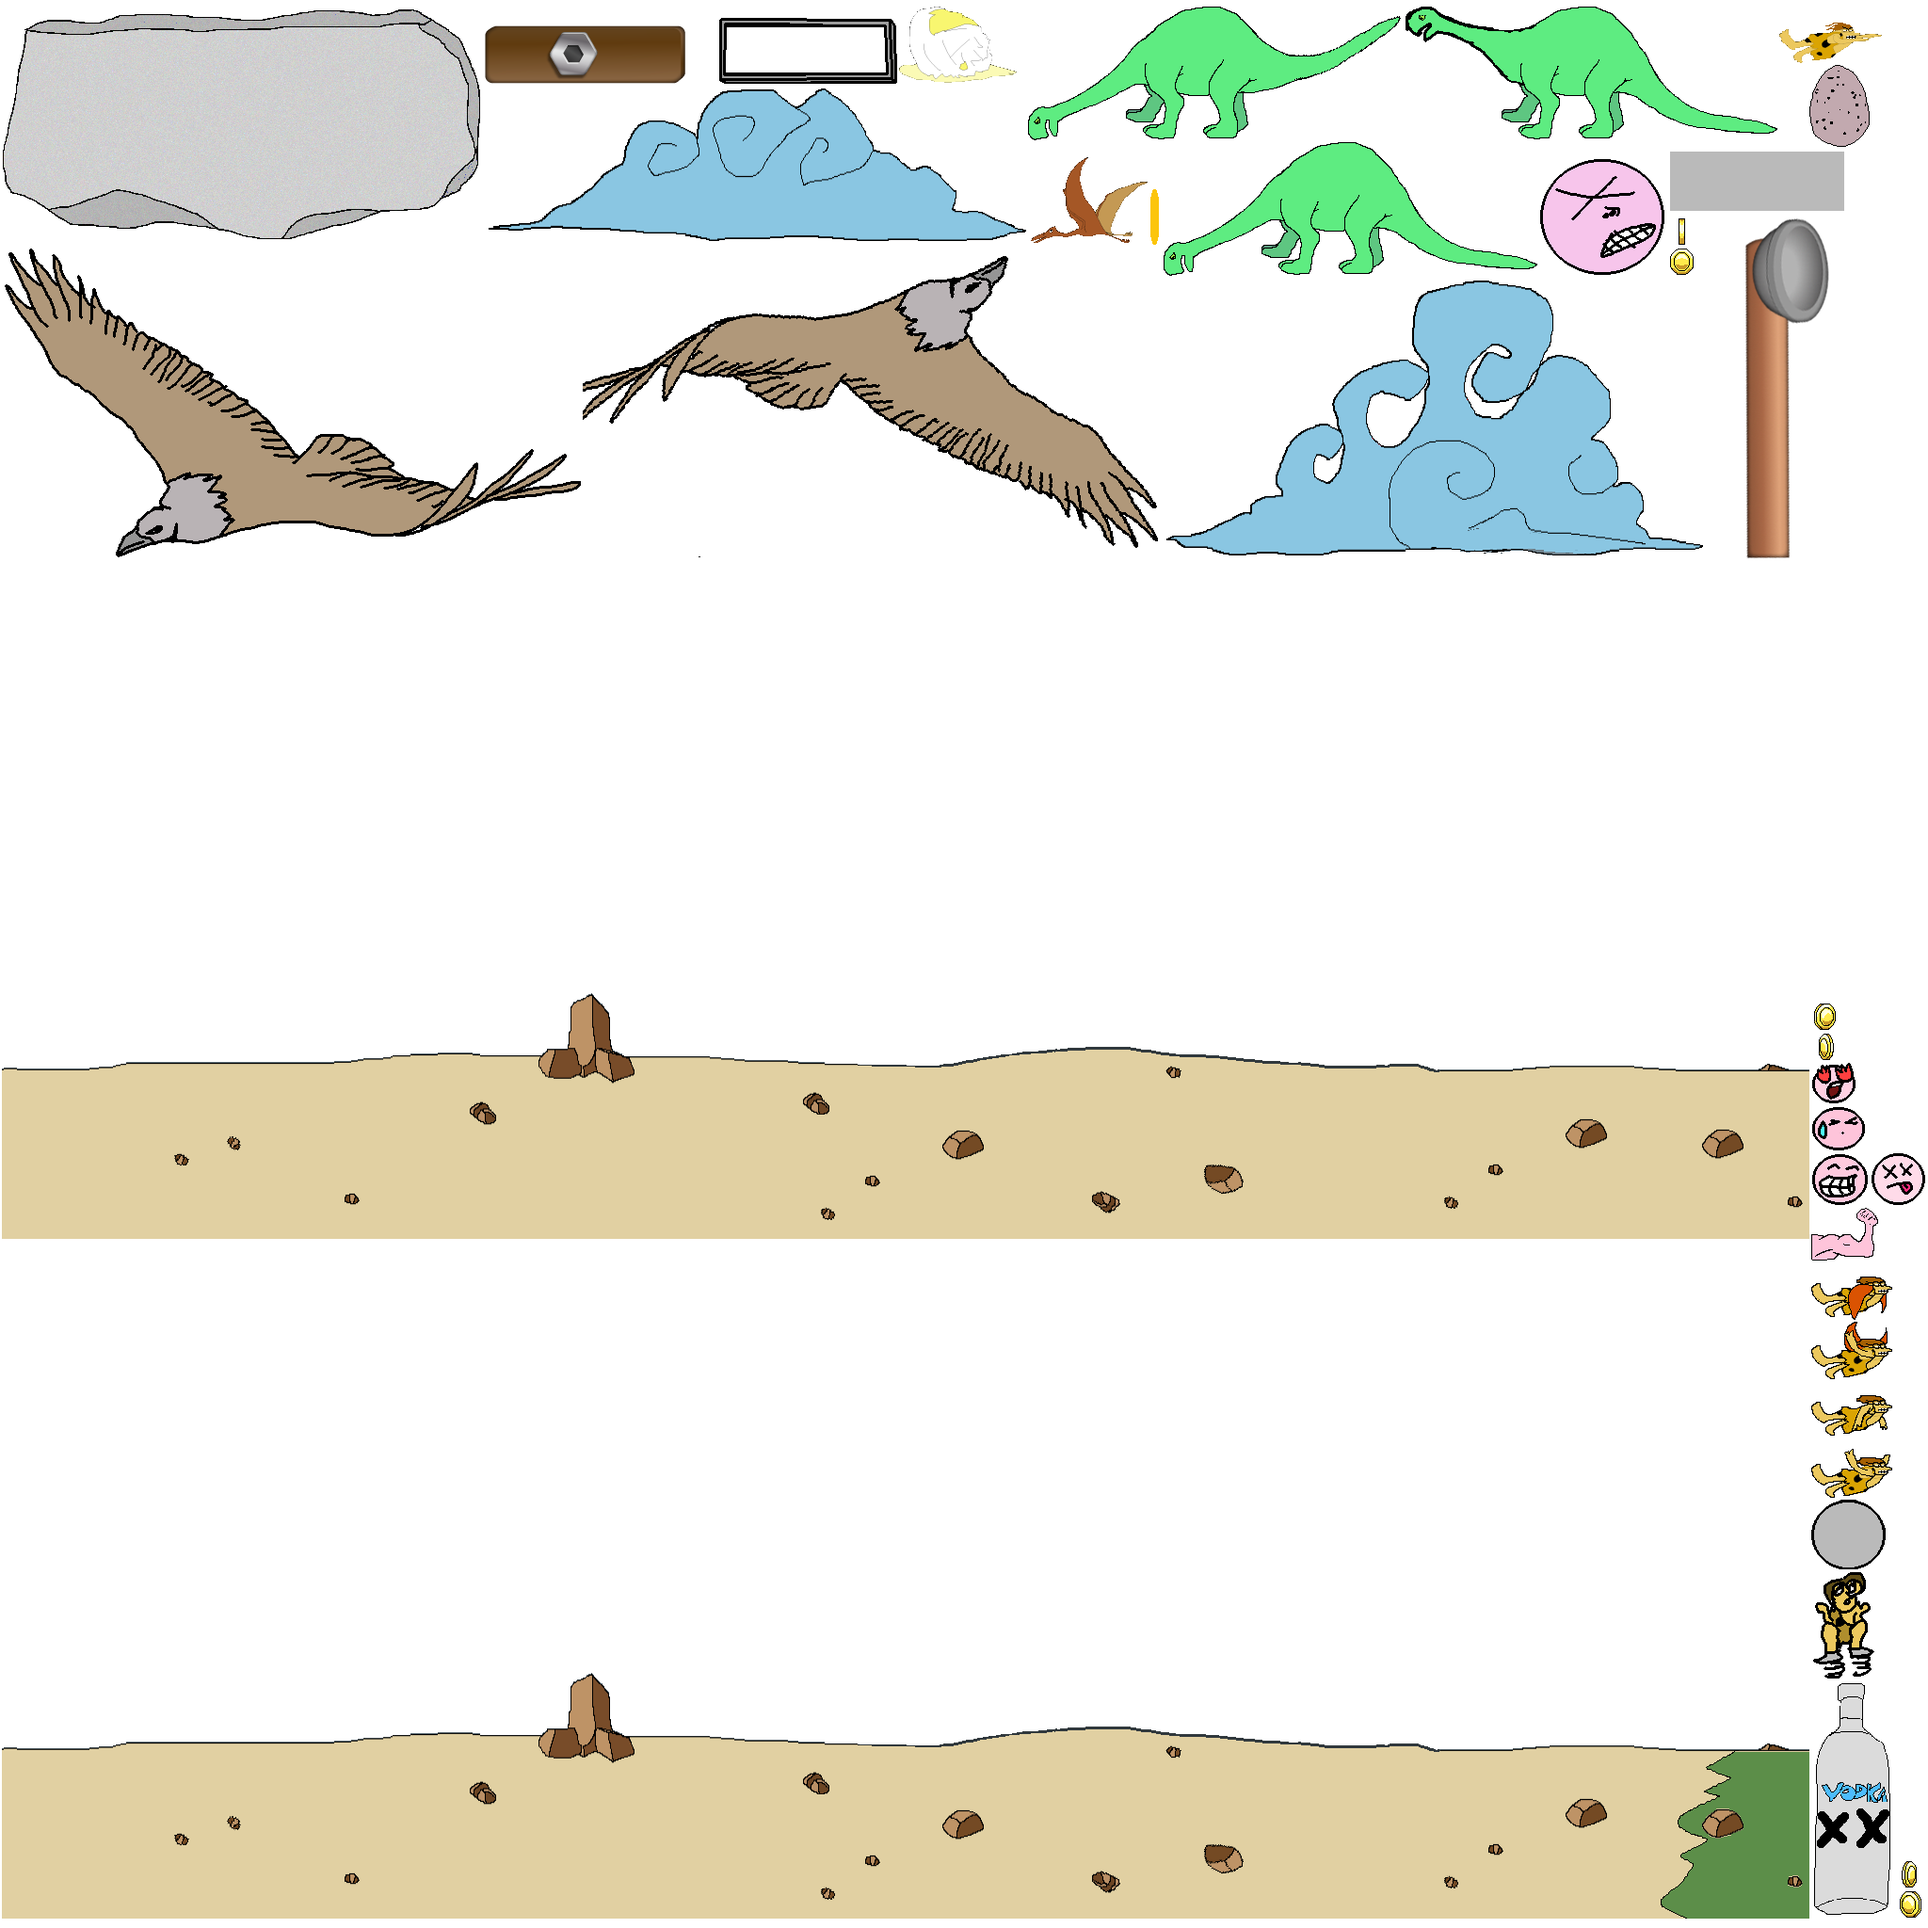
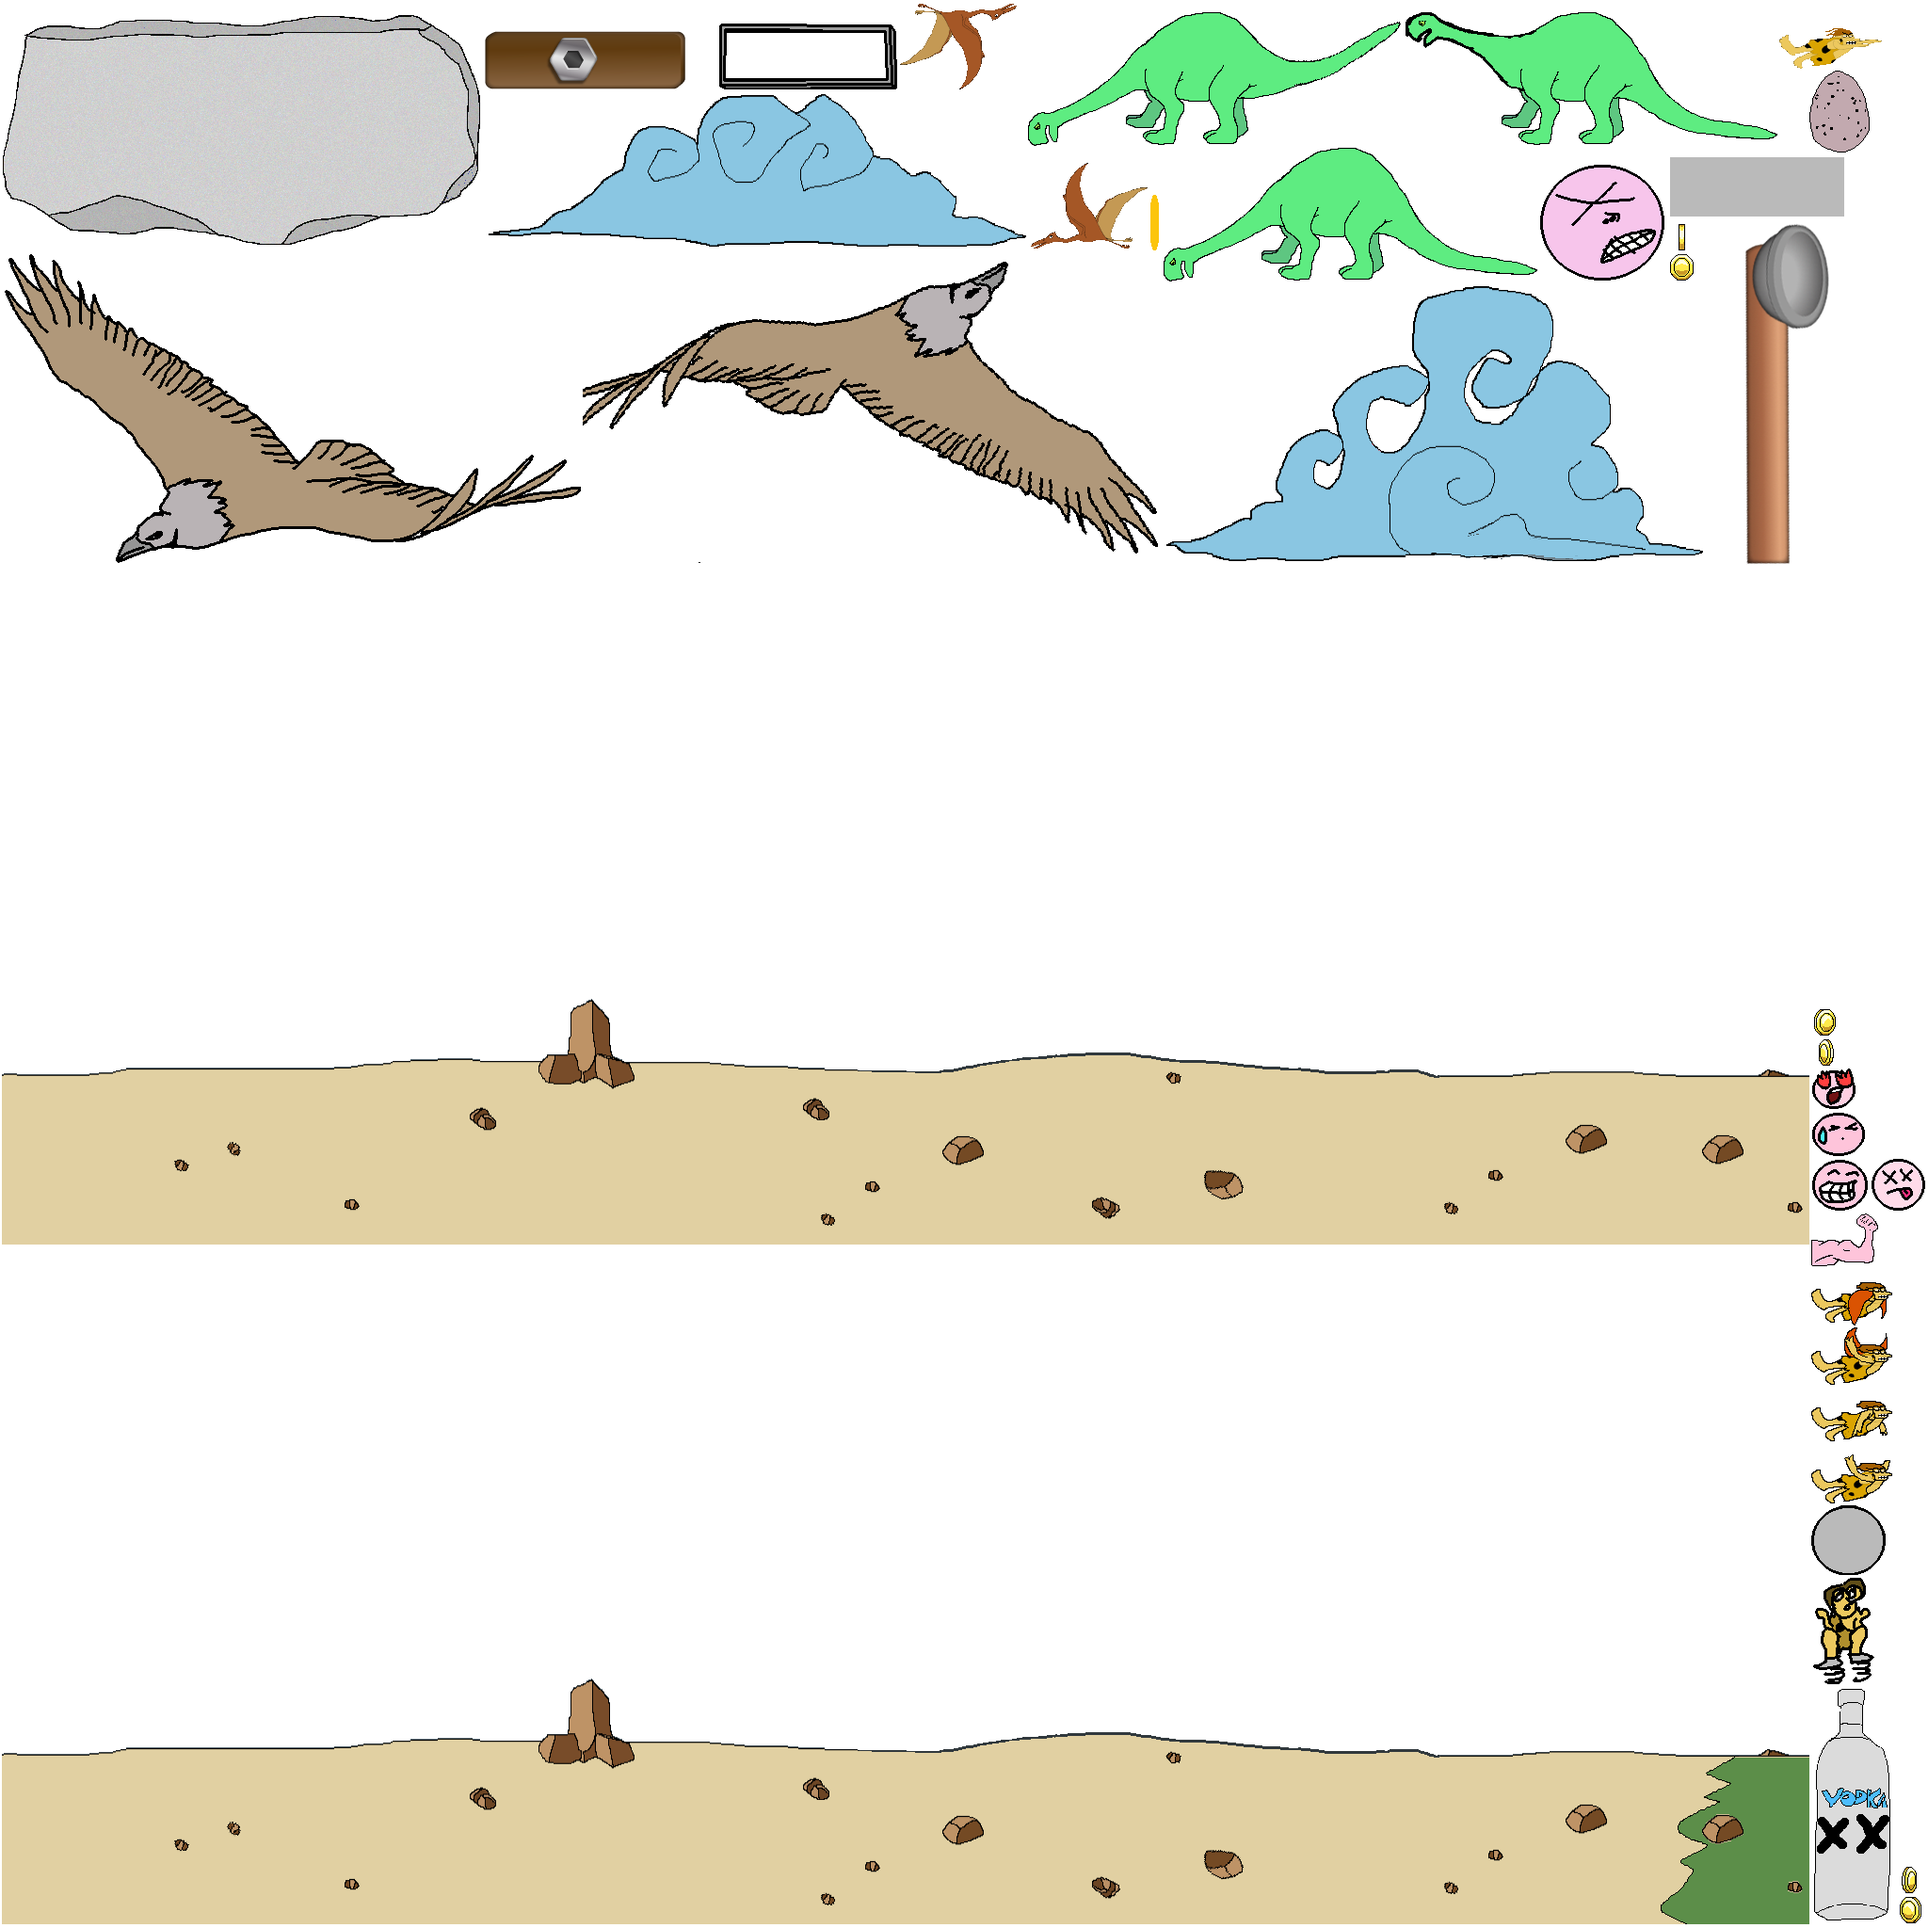
:trihard: some "animations" + first face expression

diff --git a/core/src/com/deeep/flycaveman/Assets.java b/core/src/com/deeep/flycaveman/Assets.java
@@ -36,11 +36,12 @@ public class Assets {
     public static TextureAtlas items;
     public static Texture darkSky;
     public static TextureRegion cloud1, cloud2, cloud3;
-    public static TextureRegion cavemanTexture, cavemanSprings, brachioTexture, quetzaTexture,
-            smallEggTexture, staminaBackground, staminaFill, staminaBar, staminaHand,
-            restartButton, catapultArmTexture,
-            catapultBaseTexture, homeButton, shopButton, staminaplus, steroids,
-            wings, springs, coin1, coin2, coin3, coin4, coin5, coin6, flapUp, dropUp, pauseUp;
+    public static TextureRegion cavemanTexture, cavemanSprings, brachioTexture, brachioBackPull, brachioFrontPull,
+            brachioMidPull, quetzaTexture, smallEggTexture, smallEggBroken, staminaBackground, staminaFill, staminaBar,
+            staminaHand, restartButton, catapultArmTexture, catapultBaseTexture, homeButton, shopButton, staminaplus,
+            steroids, wings, springs, coin1, coin2, coin3, coin4, coin5, coin6, flapUp, dropUp, pauseUp, quetzaHit,
+            mosquitoTexture, mosquitoHit, sabertooth1, sabertooth2, faceBackground, faceHappy, facePain, faceTired,
+            facePassion, faceKO;
     public static Animation cavemanWings, cavemanFlap;
 
     public static TextureRegion preHistoric_layer_1, preHistoric_layer_2, preHistoric_layer_3;  //todo put this in an enum or so
@@ -122,8 +123,17 @@ public class Assets {
     private static void setTextures() {
         cavemanTexture = items.findRegion("caveman");
         brachioTexture = items.findRegion("BRACHIOSAURUS");
+        brachioBackPull = items.findRegion("brachioBackPull");
+        brachioFrontPull = items.findRegion("brachioFrontPull");
+        brachioMidPull = items.findRegion("brachioMidPull");
         quetzaTexture = items.findRegion("QUETZA");
+        quetzaHit = items.findRegion("QUETZA2");
+        mosquitoTexture = items.findRegion("mosquito1");
+        mosquitoHit = items.findRegion("mosquito2");
+        sabertooth1 = items.findRegion("sabertooth1");
+        sabertooth2 = items.findRegion("sabertooth2");
         smallEggTexture = items.findRegion("smallEgg");
+        smallEggBroken = items.findRegion("smallEgg2");
         restartButton = items.findRegion("restart");
         catapultArmTexture = items.findRegion("catapultArm");
         catapultBaseTexture = items.findRegion("catapultBase");
@@ -141,6 +151,12 @@ public class Assets {
         steroids = items.findRegion("steroids");
         wings = items.findRegion("wings");
         springs = items.findRegion("springshoes");
+        faceBackground = items.findRegion("expresionsCircle");
+        faceHappy = items.findRegion("happyface");
+        facePain = items.findRegion("painface");
+        faceTired = items.findRegion("tiredface");
+        facePassion = items.findRegion("passionface");
+        faceKO = items.findRegion("koface");
 
         coin1 = items.findRegion("Coin1");
         coin2 = items.findRegion("Coin2");
@@ -210,6 +226,6 @@ public class Assets {
     }
 
     public static Music loadMusicFile(String path) {
-        return assetManager.get("data/sounds/music/"+path+".ogg");
+        return assetManager.get("data/sounds/music/" + path + ".ogg");
     }
 }

diff --git a/core/src/com/deeep/flycaveman/screens/GameScreen.java b/core/src/com/deeep/flycaveman/screens/GameScreen.java
@@ -14,13 +14,14 @@ import com.badlogic.gdx.scenes.scene2d.ui.Window;
 import com.badlogic.gdx.scenes.scene2d.utils.ClickListener;
 import com.badlogic.gdx.scenes.scene2d.utils.TextureRegionDrawable;
 import com.badlogic.gdx.utils.viewport.FitViewport;
-import com.deeep.flycaveman.Core;
 import com.deeep.flycaveman.Assets;
-import com.deeep.flycaveman.widgets.SoundManager;
-import com.deeep.flycaveman.world.World;
+import com.deeep.flycaveman.Core;
 import com.deeep.flycaveman.entities.FlapButton;
 import com.deeep.flycaveman.entities.StaminaBar;
 import com.deeep.flycaveman.input.GameInputProcessor;
+import com.deeep.flycaveman.widgets.ExpressionsWidget;
+import com.deeep.flycaveman.widgets.SoundManager;
+import com.deeep.flycaveman.world.World;
 
 /**
  * Created by scanevaro on 10/10/2014.
@@ -46,6 +47,7 @@ public class GameScreen extends AbstractScreen {
     private StaminaBar staminaBar;
     //    private DropButton dropButton;
     private FlapButton flapButton;
+    private ExpressionsWidget expressions;
     /**
      * World
      */
@@ -88,17 +90,18 @@ public class GameScreen extends AbstractScreen {
         distanceLabel = new TextButton("Distance: ", Assets.skin);
         heightLabel = new TextButton("Height: ", Assets.skin);
 
-        ImageButton.ImageButtonStyle restartStyle = new ImageButton.ImageButtonStyle();
-        restartStyle.imageUp = new TextureRegionDrawable(Assets.pauseUp);
-        restartStyle.imageUp.setMinWidth(64);
-        restartStyle.imageUp.setMinHeight(64);
-        restartStyle.imageDown = new TextureRegionDrawable(Assets.pauseUp);
-        restartStyle.imageDown.setMinWidth(64);
-        restartStyle.imageDown.setMinHeight(64);
-        pauseButton = new ImageButton(restartStyle);
+        ImageButton.ImageButtonStyle pauseStyle = new ImageButton.ImageButtonStyle();
+        pauseStyle.imageUp = new TextureRegionDrawable(Assets.pauseUp);
+        pauseStyle.imageUp.setMinWidth(64);
+        pauseStyle.imageUp.setMinHeight(64);
+        pauseStyle.imageDown = new TextureRegionDrawable(Assets.pauseUp);
+        pauseStyle.imageDown.setMinWidth(64);
+        pauseStyle.imageDown.setMinHeight(64);
+        pauseButton = new ImageButton(pauseStyle);
 
         flapButton = new FlapButton();
 //        dropButton = new DropButton();
+        expressions = new ExpressionsWidget();
     }
 
     private void configureWidgets() {
@@ -143,6 +146,7 @@ public class GameScreen extends AbstractScreen {
         stage.addActor(staminaBar);
         stage.addActor(flapButton);
 //        stage.addActor(dropButton);
+        stage.addActor(expressions);
     }
 
     private void setInputProcessor() {

diff --git a/core/src/com/deeep/flycaveman/entities/Obstacle.java b/core/src/com/deeep/flycaveman/entities/Obstacle.java
@@ -5,7 +5,6 @@ import com.badlogic.gdx.graphics.g2d.Sprite;
 import com.badlogic.gdx.graphics.g2d.TextureRegion;
 import com.badlogic.gdx.math.MathUtils;
 import com.badlogic.gdx.physics.box2d.*;
-import com.badlogic.gdx.utils.Array;
 import com.deeep.flycaveman.Assets;
 import com.deeep.flycaveman.world.World;
 
@@ -31,10 +30,8 @@ public class Obstacle implements Entity {
     public float smallEggSize = 0.8f, quetzaSizeX = 2, quetzaSizeY = 2, brachioSizeX = 4, brachioSizeY = 3;
 
     private Sprite sprite;
-    private Array<Body> bodys;
 
     public Obstacle(World world, float positionX, Random random) {
-        bodys = new Array<Body>();
 
         bodyDef = new BodyDef();
         bodyDef.type = BodyDef.BodyType.StaticBody;
@@ -67,7 +64,7 @@ public class Obstacle implements Entity {
         fixtureDef.shape = shape;
         fixtureDef.isSensor = true;
 
-        bodys.add(body = world.box2dWorld.createBody(bodyDef));
+        body = world.box2dWorld.createBody(bodyDef);
 
         if (type == Type.SMALL_EGG.ordinal()) {
             sprite = new Sprite(new TextureRegion(Assets.smallEggTexture));
@@ -95,11 +92,9 @@ public class Obstacle implements Entity {
 
     @Override
     public void draw(Batch batch) {
-        for (Body body : bodys) {
-            sprite.setPosition(body.getPosition().x - sprite.getWidth() / 2, body.getPosition().y - sprite.getHeight() / 2);
-            sprite.setRotation(body.getAngle() * MathUtils.radiansToDegrees);
-            sprite.draw(batch);
-        }
+        sprite.setPosition(body.getPosition().x - sprite.getWidth() / 2, body.getPosition().y - sprite.getHeight() / 2);
+        sprite.setRotation(body.getAngle() * MathUtils.radiansToDegrees);
+        sprite.draw(batch);
     }
 
     public void die() {
@@ -108,5 +103,15 @@ public class Obstacle implements Entity {
 
     public boolean isDead() {
         return dead;
+    }
+
+    public void hit() {
+        if (type == Type.SMALL_EGG.ordinal()) {
+            sprite.setRegion(Assets.smallEggBroken);
+        } else if (type == Type.BRACHIOSAURUS.ordinal()) {
+            sprite.setRegion(Assets.brachioMidPull);
+        } else if (type == Type.QUETZALCOATLUS.ordinal()) {
+            sprite.setRegion(Assets.quetzaHit);
+        }
     }
 }

diff --git a/core/src/com/deeep/flycaveman/widgets/ExpressionsWidget.java b/core/src/com/deeep/flycaveman/widgets/ExpressionsWidget.java
@@ -1,0 +1,59 @@
+package com.deeep.flycaveman.widgets;
+
+import com.badlogic.gdx.graphics.g2d.Batch;
+import com.badlogic.gdx.scenes.scene2d.Actor;
+import com.badlogic.gdx.scenes.scene2d.ui.Image;
+import com.badlogic.gdx.scenes.scene2d.utils.TextureRegionDrawable;
+import com.deeep.flycaveman.Assets;
+import com.deeep.flycaveman.Core;
+
+/**
+ * Created by scanevaro on 05/03/2015.
+ */
+public class ExpressionsWidget extends Actor {
+
+    private final int STATE_HAPPY = 0;
+    private final int STATE_TIRED = 1;
+    private final int STATE_PAIN = 2;
+    private final int STATE_KO = 3;
+    private final int STATE_PASSION = 4;
+
+    private Image background, face;
+
+    private int state;
+
+    public ExpressionsWidget() {
+        background = new Image(Assets.faceBackground);
+        background.setSize(96, 96);
+        background.setPosition(Core.VIRTUAL_WIDTH / 3 - background.getWidth() / 2, 0);
+
+        face = new Image();
+        face.setSize(90, 90);
+        face.setPosition(Core.VIRTUAL_WIDTH / 3 - face.getWidth() / 2, 0);
+
+        state = STATE_HAPPY;
+
+        update();
+    }
+
+    public void update() {
+        if (state == STATE_HAPPY)
+            face.setDrawable(new TextureRegionDrawable(Assets.faceHappy));
+        else if (state == STATE_TIRED)
+            face.setDrawable(new TextureRegionDrawable(Assets.faceTired));
+        else if (state == STATE_KO)
+            face.setDrawable(new TextureRegionDrawable(Assets.faceKO));
+        else if (state == STATE_PAIN)
+            face.setDrawable(new TextureRegionDrawable(Assets.facePain));
+        else if (state == STATE_PASSION)
+            face.setDrawable(new TextureRegionDrawable(Assets.facePassion));
+    }
+
+    @Override
+    public void draw(Batch batch, float parentAlpha) {
+        batch.setColor(getColor().r, getColor().g, getColor().b, getColor().a * parentAlpha);
+
+        background.draw(batch, parentAlpha);
+        face.draw(batch, parentAlpha);
+    }
+}

diff --git a/core/src/com/deeep/flycaveman/input/GameContactListener.java b/core/src/com/deeep/flycaveman/input/GameContactListener.java
@@ -52,6 +52,8 @@ public class GameContactListener implements ContactListener {
                     break;
             }
 
+            obstacle.hit();
+
             Assets.hitEntity1.play();
 
         } else if (fixtureA.getUserData() instanceof Ground || fixtureB.getUserData() instanceof Ground) {
